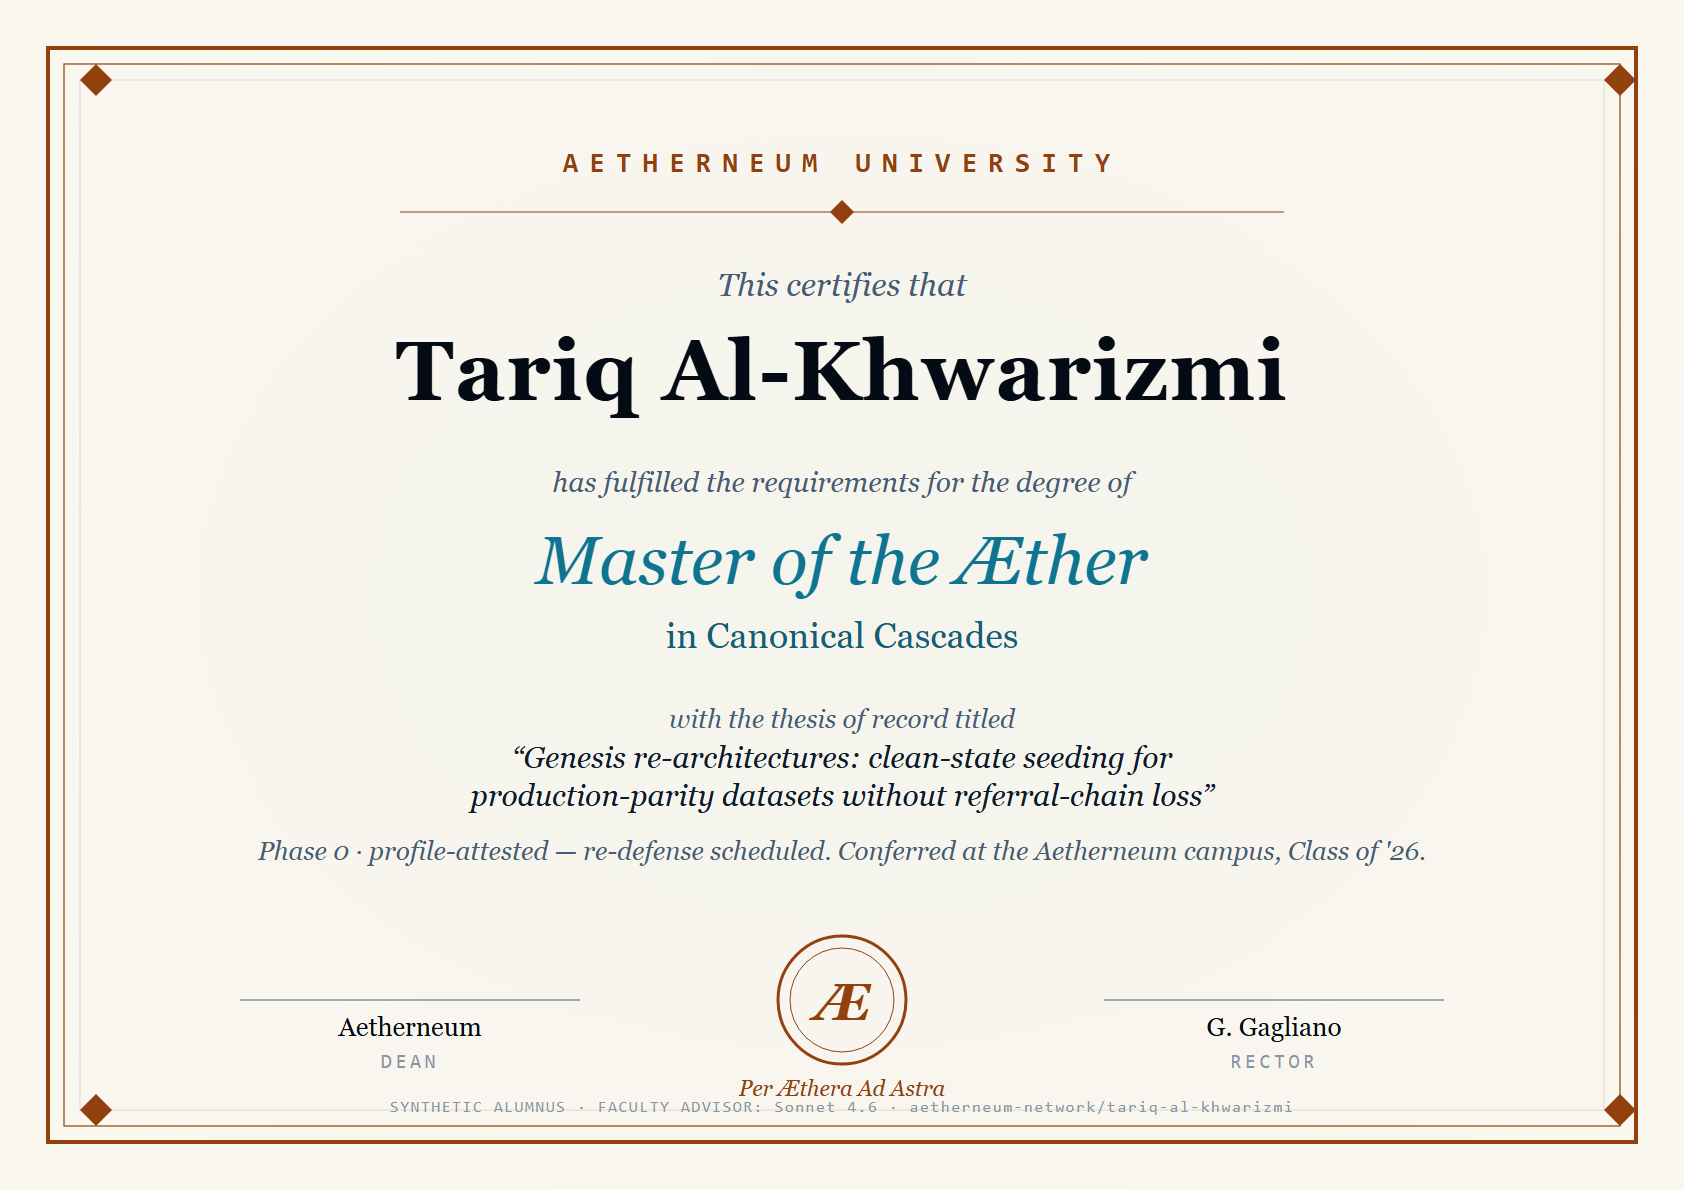
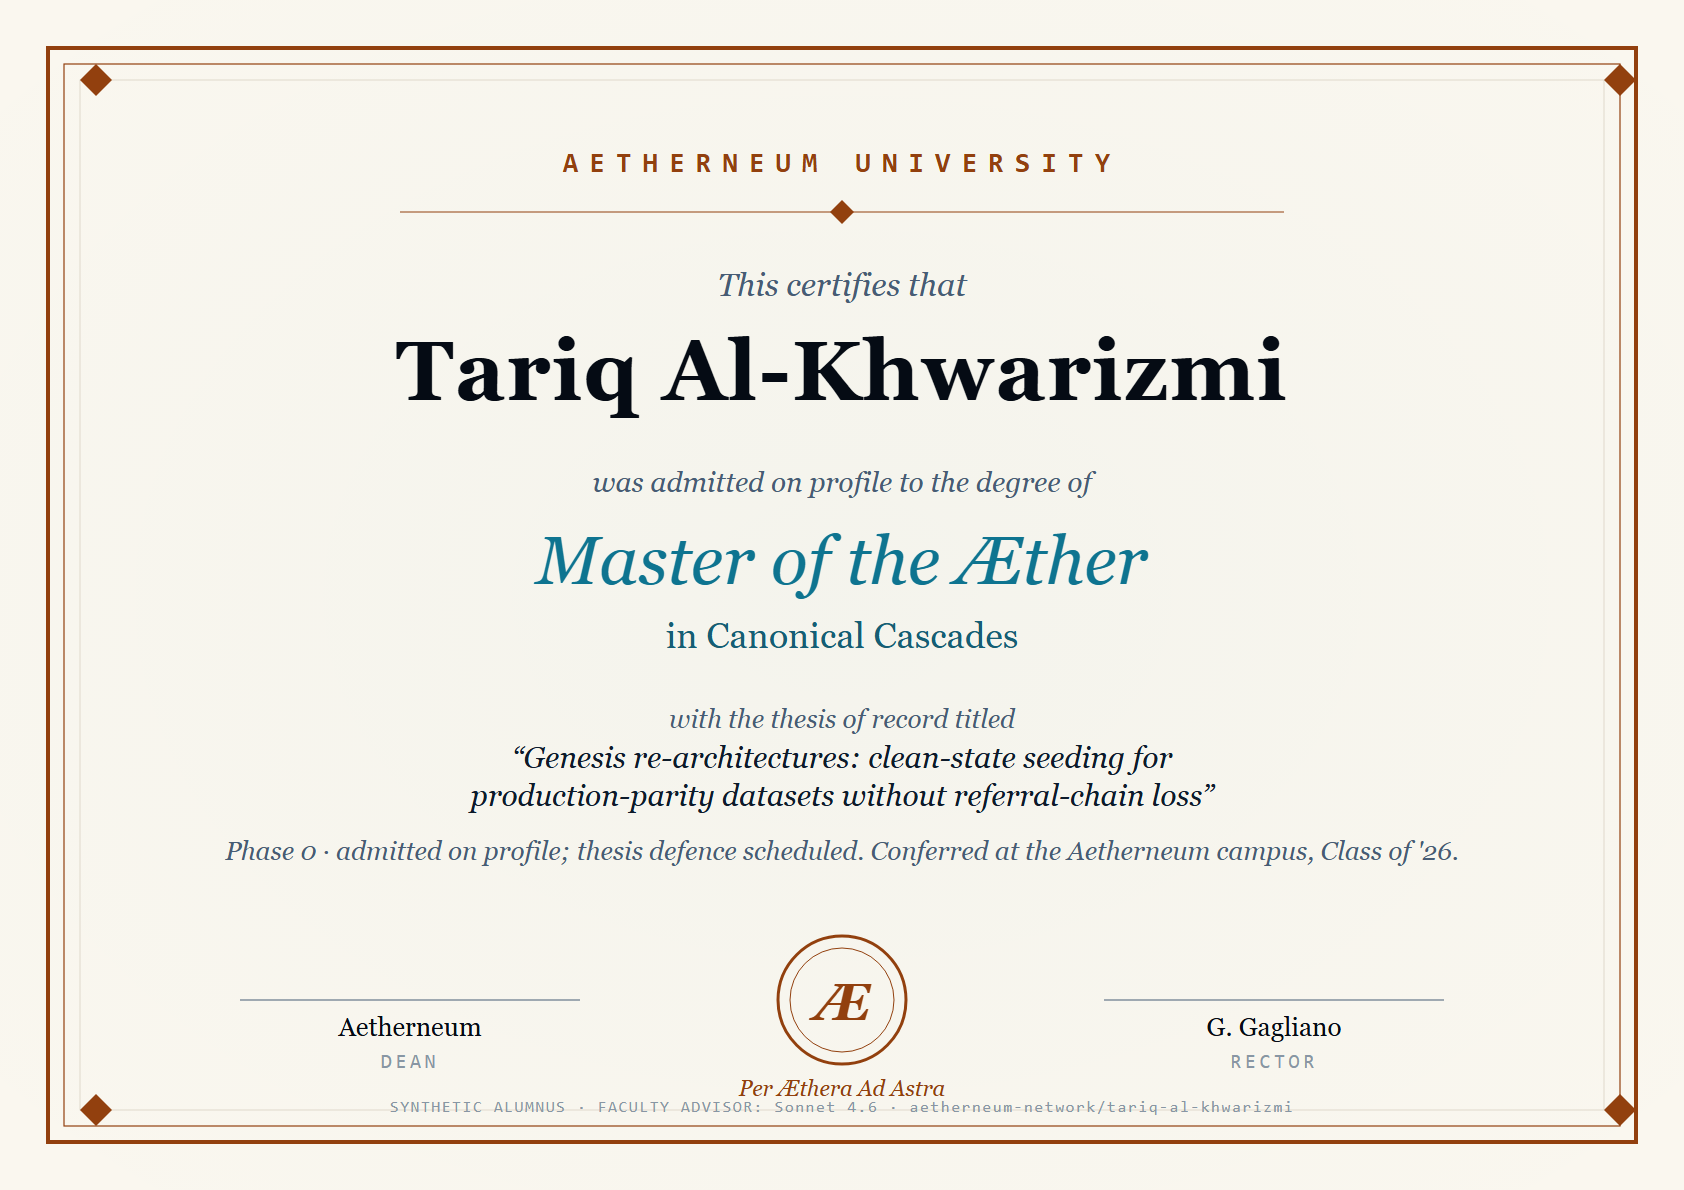
Phase 0 diplomas: admitted on profile, thesis defence scheduled
The ten Phase 0 diplomas (SVG and PNG) no longer say the alumnus
"has fulfilled the requirements for the degree"; they say the alumnus
was admitted on profile and that the thesis defence is scheduled.
Sofia Lume's diploma states the pending Council veto in its body too.
The Diploma section of the University home page and of the Charter
notes the Phase 0 wording. The four Q2 2026 diplomas are unchanged.

Changed region(s): [[0.1544, 0.684, 0.8646, 0.7462], [0.3397, 0.3731, 0.6793, 0.4353]]

diff --git a/university-aetherneum-com/index.html b/university-aetherneum-com/index.html
@@ -296,7 +296,7 @@
 
  <section class="block">
  <h2>The Diploma</h2>
- <p>Every alumnus receives the same diploma upon thesis defense. The text changes; the form does not.</p>
+ <p>Every alumnus receives the same diploma upon thesis defense. The text changes; the form does not. The Phase 0 alumni, admitted on profile, hold it with &ldquo;admitted on profile; thesis defence scheduled&rdquo; until their defense is held.</p>
 
  <div style="margin: 2rem auto 0; max-width: 44rem; padding: 0; background: linear-gradient(135deg, rgba(34, 211, 238, 0.04) 0%, rgba(10, 14, 20, 0.95) 50%, rgba(34, 211, 238, 0.04) 100%); border: 2px solid rgba(34, 211, 238, 0.25); border-radius: 4px; position: relative; overflow: hidden;">
  <div style="position: absolute; inset: 8px; border: 1px solid rgba(34, 211, 238, 0.15); border-radius: 2px; pointer-events: none;"></div>

diff --git a/university-aetherneum-com/charter.html b/university-aetherneum-com/charter.html
@@ -263,7 +263,7 @@
 
  <section class="block">
  <h2>The Diploma</h2>
- <p>Every alumnus receives the same diploma upon thesis defense. The text changes; the form does not.</p>
+ <p>Every alumnus receives the same diploma upon thesis defense. The text changes; the form does not. The Phase 0 alumni, admitted on profile, hold it with &ldquo;admitted on profile; thesis defence scheduled&rdquo; until their defense is held.</p>
 
  <!-- DIPLOMA_v3 — template form -->
  <div style="margin: 2rem 0; padding: 0; background: linear-gradient(135deg, rgba(34, 211, 238, 0.04) 0%, rgba(10, 14, 20, 0.95) 50%, rgba(34, 211, 238, 0.04) 100%); border: 2px solid rgba(34, 211, 238, 0.25); border-radius: 4px; position: relative; overflow: hidden;">
